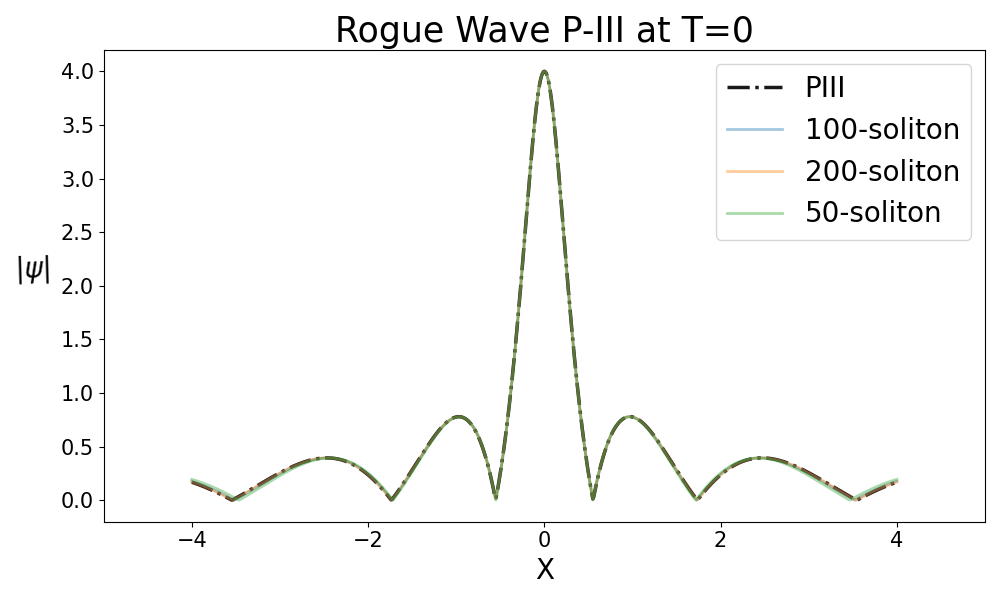
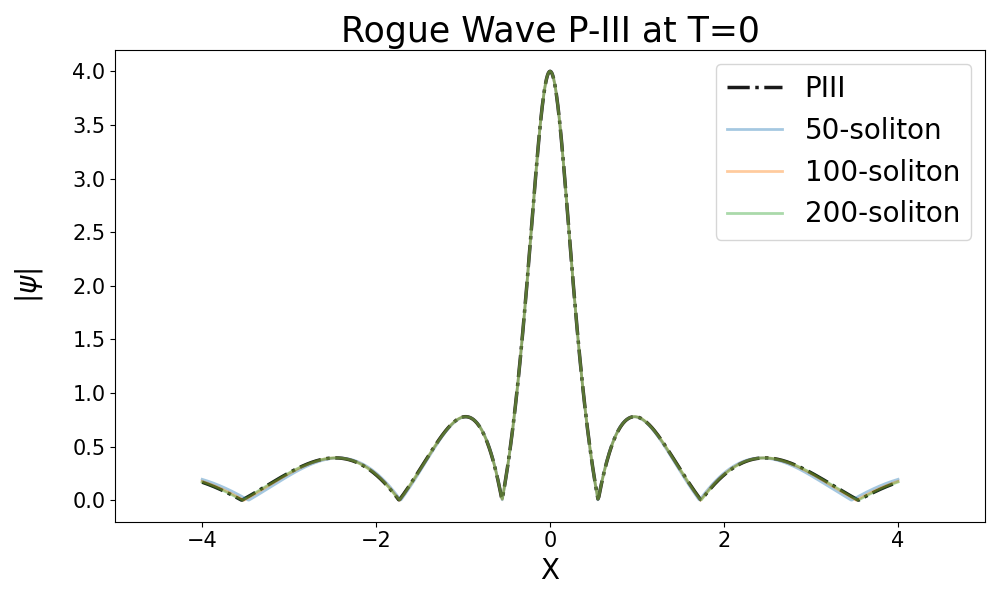
new plots

diff --git a/src/plots_RW.py b/src/plots_RW.py
@@ -63,18 +63,32 @@ def _load_df(csv_path: Path) -> pd.DataFrame:
 def _plot_group(glob_pattern: str, rhp_filename: str, outname: str, title: str, diff_outname: str, diff_title: str):
 	"""Plot all files matching glob_pattern in BASE_DIR.
 	- The RHP file (rhp_filename) is plotted first as a dashed black line and labeled 'PIII' or 'PV'.
-	- Soliton files of the form '{N}SolitonsPIII.csv' or '{N}SolitonsPV.csv' are labeled '{N}-soliton'.
-	- Additionally creates a log10 difference plot between the RHP file and each soliton file, saved to diff_outname.
+	- Soliton files of the form '{N}SolitonsPIII.csv' or '{N}SolitonsPV.csv' are labeled '{N}-soliton' and
+	  are plotted in numeric order (e.g. 50, 100, 200).
+	- Additionally creates a log10 difference plot between the RHP file and each soliton file, saved to diff_outname,
+	  and a separate L2-norm vs N plot saved alongside.
 	"""
-	files = sorted([p.name for p in BASE_DIR.glob(glob_pattern)])
-	if not files:
+	files_all = sorted([p.name for p in BASE_DIR.glob(glob_pattern)])
+	if not files_all:
 		print(f"No files found for pattern: {glob_pattern}")
 		return
 
-	# Put the RHP file first if present
-	if rhp_filename in files:
-		files.remove(rhp_filename)
-		files.insert(0, rhp_filename)
+	# Separate RHP and soliton/other files
+	soliton_re = re.compile(r"^(\d+)")
+	rhp = rhp_filename
+	others = [f for f in files_all if f != rhp]
+	# identify soliton files (those starting with a number)
+	solitons = [f for f in others if soliton_re.match(f)]
+	others_non_soliton = [f for f in others if f not in solitons]
+	# sort solitons by numeric prefix (ensures 50,100,200 order)
+	solitons_sorted = sorted(solitons, key=lambda f: int(soliton_re.match(f).group(1)))
+
+	# Build final ordered list: RHP first (if present), then sorted solitons, then any other files
+	files = []
+	if rhp in files_all:
+		files.append(rhp)
+	files.extend(solitons_sorted)
+	files.extend(others_non_soliton)
 
 	# Load all data into dict
 	data = {}
@@ -89,24 +103,24 @@ def _plot_group(glob_pattern: str, rhp_filename: str, outname: str, title: str, 
 		df = df.dropna(subset=["X", "PsiAbs"]).sort_values("X")
 		data[fname] = df.reset_index(drop=True)
 
-	if rhp_filename not in data:
-		print(f"RHP file {rhp_filename} not found or failed to load; skipping plotting for pattern {glob_pattern}")
+	if rhp not in data:
+		print(f"RHP file {rhp} not found or failed to load; skipping plotting for pattern {glob_pattern}")
 		return
 
 	# Helper to build label from filename
 	def _label_from_name(fname: str, rhp_name: str):
-		# soliton files start with number
-		m = re.match(r"^(\d+)", fname)
+		m = soliton_re.match(fname)
 		if m:
 			return f"{m.group(1)}-soliton"
-		# RHP files labeled by PIII or PV
 		if fname == rhp_name:
 			if "PIII" in fname:
 				return "PIII"
 			if "PV" in fname:
 				return "PV"
-		# fallback to filename
 		return fname
+
+	# Determine dataset label for use in y-labels (PIII or PV)
+	dataset_label = "PIII" if "PIII" in rhp else ("PV" if "PV" in rhp else "")
 
 	# Main overlay plot
 	plt.figure(figsize=(10, 6))
@@ -114,14 +128,14 @@ def _plot_group(glob_pattern: str, rhp_filename: str, outname: str, title: str, 
 		if fname not in data:
 			continue
 		df = data[fname]
-		label = _label_from_name(fname, rhp_filename)
+		label = _label_from_name(fname, rhp)
 		if idx == 0:
 			plt.plot(df["X"], df["PsiAbs"], label=label, color="black", linestyle='-.', linewidth=2.5, alpha=0.9)
 		else:
 			plt.plot(df["X"], df["PsiAbs"], label=label, linewidth=2, alpha=0.4)
 
 	plt.xlabel("X", fontsize=20)
-	plt.ylabel(r"$|\psi|$", fontsize=20, labelpad=20,rotation=np.pi/2)
+	plt.ylabel(r"$|\psi|$", fontsize=20, labelpad=20)
 	plt.title(title, fontsize=25)
 	plt.xlim(-5, 5)
 	plt.legend(fontsize=20)
@@ -132,7 +146,7 @@ def _plot_group(glob_pattern: str, rhp_filename: str, outname: str, title: str, 
 	plt.close()
 
 	# Difference log plot: RHP vs each soliton
-	rhp_df = data[rhp_filename]
+	rhp_df = data[rhp]
 	rhp_x = rhp_df["X"].values
 	rhp_y = rhp_df["PsiAbs"].values
 	# ensure increasing x for interpolation
@@ -141,7 +155,10 @@ def _plot_group(glob_pattern: str, rhp_filename: str, outname: str, title: str, 
 	rhp_y_sorted = rhp_y[rhp_order]
 
 	plt.figure(figsize=(10, 6))
-	for fname in files[1:]:
+	# prepare L2 collections
+	Ns = []
+	L2_vals = []
+	for fname in solitons_sorted:
 		if fname not in data:
 			continue
 		sol_df = data[fname]
@@ -154,14 +171,24 @@ def _plot_group(glob_pattern: str, rhp_filename: str, outname: str, title: str, 
 			print(f"Interpolation failed for {fname}: {e}")
 			continue
 		delta = np.abs(rhp_interp - sol_y)
+		# compute L2 norm: sqrt(integral delta^2 dx)
+		l2_sq = np.trapz(delta**2, sol_x)
+		l2 = np.sqrt(l2_sq)
+		# collect N and L2
+		n_match = soliton_re.match(fname)
+		N = int(n_match.group(1)) if n_match else None
+		if N is not None:
+			Ns.append(N)
+			L2_vals.append(l2)
 		# avoid log10(0)
 		delta_safe = np.maximum(delta, np.finfo(float).tiny)
 		logdelta = np.log10(delta_safe)
-		label = _label_from_name(fname, rhp_filename)
+		label = _label_from_name(fname, rhp)
 		plt.plot(sol_x, logdelta, label=label, linewidth=1.5, alpha=0.8)
 
+	ylabel = rf"$\log_{{10}} |\Psi_{{{dataset_label}}} - \Psi_{{N,{dataset_label}}}|$"
 	plt.xlabel("X", fontsize=14)
-	plt.ylabel(r"log10 |RHP - soliton|", fontsize=14, labelpad=18)
+	plt.ylabel(ylabel, fontsize=14, labelpad=18)
 	plt.title(diff_title, fontsize=16)
 	plt.xlim(-5, 5)
 	plt.legend(fontsize=12)
@@ -170,6 +197,43 @@ def _plot_group(glob_pattern: str, rhp_filename: str, outname: str, title: str, 
 	plt.savefig(BASE_DIR / diff_outname)
 	plt.show()
 	plt.close()
+
+	# Plot L2 norm vs N (number of solitons)
+	if Ns:
+		# sort by N
+		order = np.argsort(Ns)
+		Ns_sorted = np.array(Ns)[order]
+		L2_sorted = np.array(L2_vals)[order]
+		plt.figure(figsize=(8, 5))
+		plt.semilogy(Ns_sorted, L2_sorted, marker='o', linestyle='-', linewidth=2)
+		plt.xlabel('Number of solitons (N)', fontsize=14)
+		# reuse the same ylabel as the log-difference plot (dataset_label is in scope)
+		# the variable `ylabel` was built earlier for the log plot and includes the dataset name
+		try:
+			plt.ylabel(ylabel, fontsize=14, labelpad=12)
+		except NameError:
+			# fallback if ylabel not defined for some reason
+			plt.ylabel(r'$\|\Psi_{\mathrm{RHP}} - \Psi_{N}\|_{2}$', fontsize=14)
+		plt.title(rf'$L_2$ difference ({dataset_label})', fontsize=16)
+		# set x-ticks at the Ns values with labels
+		plt.xticks(Ns_sorted, [str(int(n)) for n in Ns_sorted], fontsize=12)
+		# set y-ticks at powers of ten covering the L2 range
+		# handle zero or extremely small values
+		pos_vals = L2_sorted[L2_sorted > 0]
+		if pos_vals.size > 0:
+			kmin = int(np.floor(np.log10(pos_vals.min())))
+			kmax = int(np.ceil(np.log10(L2_sorted.max())))
+			yticks = 10.0 ** np.arange(kmin, kmax + 1)
+			ytick_labels = [f'$10^{{{k}}}$' for k in range(kmin, kmax + 1)]
+			plt.yticks(yticks, ytick_labels, fontsize=12)
+		# minor grid and styling
+		plt.grid(True, which='both', ls='--', alpha=0.4)
+		plt.tight_layout()
+		# derive L2 output name from diff_outname
+		l2_outname = Path(diff_outname).stem + '_L2.png'
+		plt.savefig(BASE_DIR / l2_outname)
+		plt.show()
+		plt.close()
 
 
 # Plot all P-III related CSVs and produce difference plot
